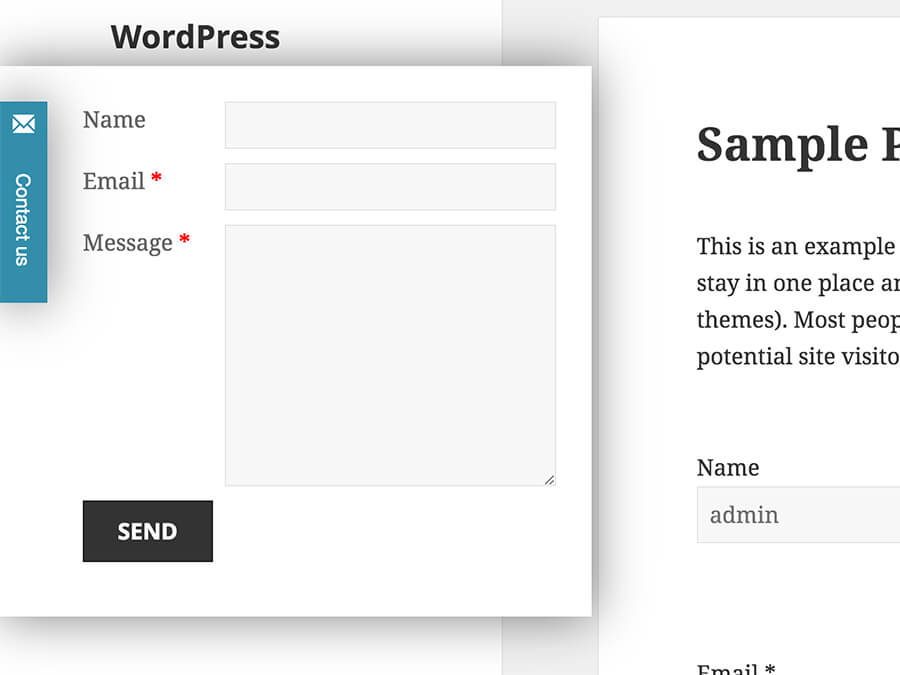
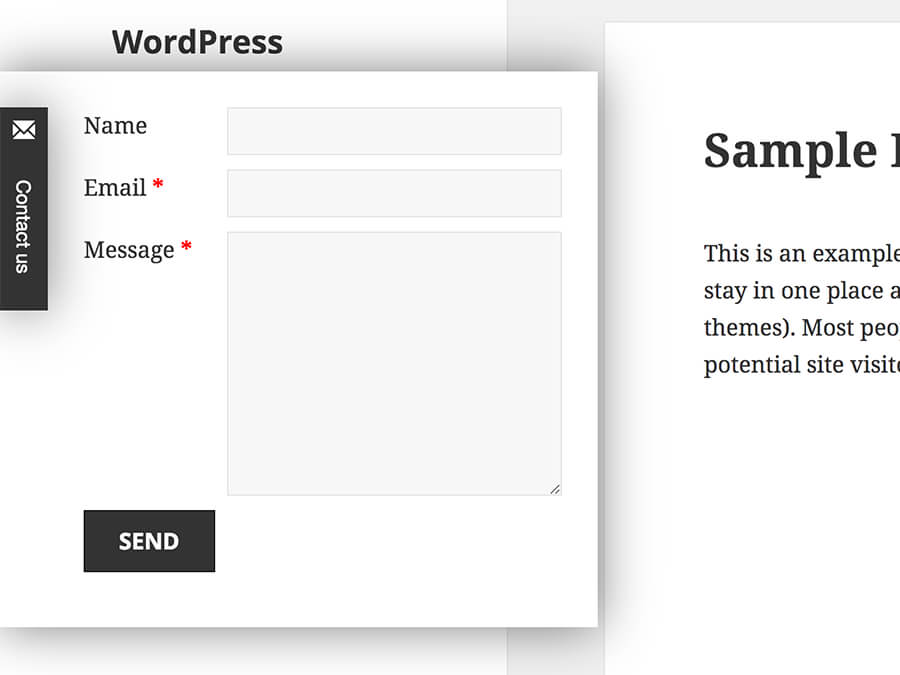
Twenty Sixten theme

diff --git a/media/css/themes/twenty-sixteen.css b/media/css/themes/twenty-sixteen.css
@@ -6,8 +6,8 @@
  * @author Emil Lament
  */
 
-@import url('https://fonts.googleapis.com/css?family=Noto+Serif');
-@import url('https://fonts.googleapis.com/css?family=Noto+Sans:700');
+@import url('https://fonts.googleapis.com/css?family=Merriweather');
+@import url('https://fonts.googleapis.com/css?family=Montserrat:700');
 
 form.pwebcontact-form input.pweb-input,
 form.pwebcontact-form select {
@@ -45,15 +45,18 @@ form.pwebcontact-form .pweb-field-shadow {
 
 form.pwebcontact-form button,
 form.pwebcontact-form .btn {
-    padding: 0.5em 0.5em;
-    font-family: Noto Sans, sans-serif !important;
+    padding: 0.6em 0.8em;
+    font-family: Montserrat, sans-serif !important;
     text-shadow: none !important;
     text-transform: uppercase;
     font-weight: 700;
+    border-radius: 2px !important;
+    -moz-border-radius: 2px !important;
+    -webkit-border-radius: 2px !important;
 }
 
 form.pwebcontact-form button[type="submit"].btn {
-    padding: 0.7917em 1.5em;
+    padding: 0.65em 0.85em;
 }
 
 form.pwebcontact-form button:hover,
@@ -62,8 +65,8 @@ form.pwebcontact-form button:active,
 form.pwebcontact-form .btn:hover,
 form.pwebcontact-form .btn:focus,
 form.pwebcontact-form .btn:active {
-    background: #707070 !important;
-    border-color: #707070 !important;
+    background: #007acc !important;
+    border-color: #007acc !important;
 }
 
 .pweb-calendar-btn .glyphicon {
@@ -73,7 +76,7 @@ form.pwebcontact-form .btn:active {
 
 form.pwebcontact-form input.pweb-checkbox,
 form.pwebcontact-form input.pweb-radio {
-    margin: 7px 7px 0 0;
+    margin: 5px 7px 0 0;
     float: left;
 }
 
@@ -83,7 +86,108 @@ form.pwebcontact-form input.pweb-radio {
     border: none;
 }
 
+.pweb-radius form.pwebcontact-form input.pweb-input,
+.pweb-radius form.pwebcontact-form select,
+.pweb-radius form.pwebcontact-form textarea,
+.pweb-radius form.pwebcontact-form .pweb-field-shadow {
+    -webkit-border-radius: 2px;
+    -moz-border-radius: 2px;
+    border-radius: 2px;
+}
+
+/* Toggler rounded */
+
+.pwebcontact_toggler.pweb-radius {
+    -webkit-border-radius: 4px;
+    -moz-border-radius: 4px;
+    border-radius: 4px;
+}
+
+.pweb-left .pwebcontact_toggler.pweb-radius {
+    -webkit-border-radius: 0 4px 4px 0;
+    -moz-border-radius: 0 4px 4px 0;
+    border-radius: 0 4px 4px 0;
+}
+
+.pweb-right .pwebcontact_toggler.pweb-radius {
+    -webkit-border-radius: 4px 0 0 4px;
+    -moz-border-radius: 4px 0 0 4px;
+    border-radius: 4px 0 0 4px;
+}
+
+.pweb-top .pwebcontact_toggler.pweb-radius {
+    -webkit-border-radius: 0 0 4px 4px;
+    -moz-border-radius: 0 0 4px 4px;
+    border-radius: 0 0 4px 4px;
+}
+
+.pweb-bottom .pwebcontact_toggler.pweb-radius {
+    -webkit-border-radius: 4px 4px 0 0;
+    -moz-border-radius: 4px 4px 0 0;
+    border-radius: 4px 4px 0 0;
+}
+
 /* Slide */
+
+.pwebcontact.pweb-slidebox.pweb-left.pweb-radius .pwebcontact-container {
+    -webkit-border-radius: 0 4px 4px 0;
+    -moz-border-radius: 0 4px 4px 0;
+    border-radius: 0 4px 4px 0;
+}
+
+.pwebcontact.pweb-slidebox.pweb-right.pweb-radius .pwebcontact-container {
+    -webkit-border-radius: 4px 0 0 4px;
+    -moz-border-radius: 4px 0 0 4px;
+    border-radius: 4px 0 0 4px;
+}
+
+.pwebcontact.pweb-slidebox.pweb-left.pweb-toggler-slide.pweb-radius .pwebcontact-container {
+    -webkit-border-radius: 0 0 4px 0;
+    -moz-border-radius: 0 0 4px 0;
+    border-radius: 0 0 4px 0;
+}
+
+.pwebcontact.pweb-slidebox.pweb-right.pweb-toggler-slide.pweb-radius .pwebcontact-container {
+    -webkit-border-radius: 0 0 0 4px;
+    -moz-border-radius: 0 0 0 4px;
+    border-radius: 0 0 0 4px;
+}
+
+.pwebcontact.pweb-slidebox.pweb-top.pweb-radius .pwebcontact-container {
+    -webkit-border-radius: 0 0 4px 4px;
+    -moz-border-radius: 0 0 4px 4px;
+    border-radius: 0 0 4px 4px;
+}
+
+.pwebcontact.pweb-slidebox.pweb-bottom.pweb-radius .pwebcontact-container {
+    -webkit-border-radius: 4px 4px 0 0;
+    -moz-border-radius: 4px 4px 0 0;
+    border-radius: 4px 4px 0 0;
+}
+
+.pwebcontact.pweb-slidebox.pweb-top.pweb-toggler-slide.pweb-offset-left.pweb-radius .pwebcontact-container {
+    -webkit-border-radius: 0 0 4px 0;
+    -moz-border-radius: 0 0 4px 0;
+    border-radius: 0 0 4px 0;
+}
+
+.pwebcontact.pweb-slidebox.pweb-top.pweb-toggler-slide.pweb-offset-right.pweb-radius .pwebcontact-container {
+    -webkit-border-radius: 0 0 0 4px;
+    -moz-border-radius: 0 0 0 4px;
+    border-radius: 0 0 0 4px;
+}
+
+.pwebcontact.pweb-slidebox.pweb-bottom.pweb-toggler-slide.pweb-offset-left.pweb-radius .pwebcontact-container {
+    -webkit-border-radius: 0 4px 0 0;
+    -moz-border-radius: 0 4px 0 0;
+    border-radius: 0 4px 0 0;
+}
+
+.pwebcontact.pweb-slidebox.pweb-bottom.pweb-toggler-slide.pweb-offset-right.pweb-radius .pwebcontact-container {
+    -webkit-border-radius: 4px 0 0 0;
+    -moz-border-radius: 4px 0 0 0;
+    border-radius: 4px 0 0 0;
+}
 
 .pwebcontact.pweb-slidebox.pweb-vertical.pweb-left .pwebcontact_toggler {
     top: 30px;
